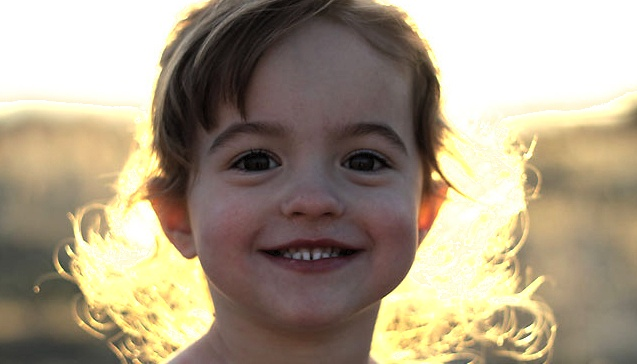
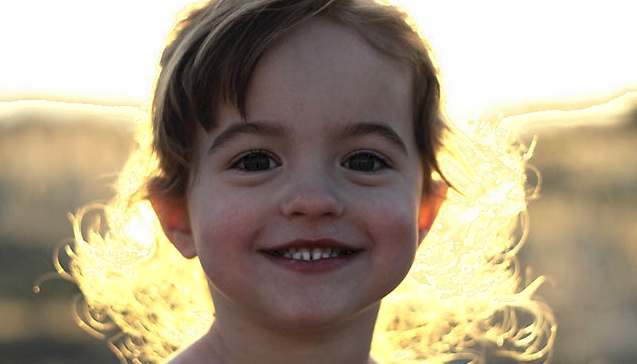
Darkened brightest parts and vice versa but there are still significant artifacts as it's not a smooth transition

diff --git a/old_Brightness_Correction.py b/old_Brightness_Correction.py
@@ -94,9 +94,6 @@ def old_linearRescale(image, start, end):
 
 	scale = 255 / (end - start)
 
-	# for index, pixel in np.ndenumerate(image):
-	# 	image[index] = max(( pixel - start ) * scale, 0)
-
 	for index in range(image.shape[2]):
 		output[:,:,index] = (image[:,:,index] - start ) * scale
 
@@ -109,12 +106,11 @@ def old_linearRescale(image, start, end):
 
 # Given an image, it's joined values, and a target range, scale the original image to fit the desired histogram
 # Outputs a float numpy array of the same size and shape as image
-def linearRescale(image, joinedimage, start, end, mask):
+def linearRescale(image, joinedimage, start, end, light_mask, dark_mask):
 
 	output = np.zeros(image.shape, dtype=np.float)
 	scale = 255.0 / (end - start)
 	print "Range is {} and scale is {:.2f}".format(end - start, scale)
-
 
 	joined_rescaled = (joinedimage - start) * scale 
 	for i in range(image.shape[2]):
@@ -122,31 +118,34 @@ def linearRescale(image, joinedimage, start, end, mask):
 		output[:,:,i] = joined_rescaled * (image[:,:,i] / joinedimage) / (1.0/3.0)
 		print "Average output for this color is {:.1f}".format(np.average(output[:,:,i]))
 
+	# Adjust the brightest and darkest areas with a non-linear scaling
+	# dark_boost_max = 2		# Max scaling to increase darkest areas
+	# dark_boost_range = 20
+	# for i in range(0, dark_boost_range):
+	# 	dark_mask = output == i
+	# 	output[mask] = output[mask] * dark_boost_max * (dark_boost_range - i) / dark_boost_range
+
+	adark_mask = output < 15
+	output[adark_mask] = output[adark_mask] * 2
+	bright_mask = output > 245
+	output[bright_mask] = output[bright_mask] * .95
 
 	# Only scale unmasked regions by copying over original image data that was masked
-	mask_3D = np.full(image.shape, False, dtype=np.uint8)
+	mask_3Dl = np.full(image.shape, False, dtype=np.uint8)
+	mask_3Dd = np.full(image.shape, False, dtype=np.uint8)
 	for i in range(image.shape[2]):
-		mask_3D[:,:, i] = mask
-	# print "Image size: {}".format(image.shape)
-	# print "Output size: {}".format(output.shape)
-	# print "Mask size: {}".format(mask_3D.shape)
-	# print mask_3D
-	anothermask = mask_3D == 0
-	# print anothermask
-	# print "Another mask size: {}".format(anothermask.shape)
-	output[anothermask] = image[anothermask]
+		mask_3Dl[:,:, i] = light_mask
+		mask_3Dd[:,:, i] = dark_mask
+	almask = mask_3Dl == 0
+	admask = mask_3Dd == 0
+	output[almask] = image[almask] * .98
+	output[admask] = image[admask] * 2
 	print "Average output post mask {:.1f} \t Max: {}".format(np.average(output), np.max(output))
 
-	# for index, pixel in np.ndenumerate(joinedimage):
-	# 	scaled = (pixel - start) * scale
-	# 	print "index = {} \t Output: {}".format(index, output[index])
-	# 	for i in range(image.shape[2]):
-	# 		output[index][i] = scaled * (image[index][i] / pixel)
-
-	# lower_bound_mask = output < 0
-	# output[lower_bound_mask] = 0
-	# upper_bound_mask = output > 255
-	# output[upper_bound_mask] = 255
+	lower_bound_mask = output < 0
+	output[lower_bound_mask] = 0
+	upper_bound_mask = output > 255
+	output[upper_bound_mask] = 255
 
 	return output
 	# return output.astype(np.uint8)

diff --git a/old_main.py b/old_main.py
@@ -46,8 +46,10 @@ if __name__ == "__main__":
 			mask = np.full(joinedlayers.shape, 255, dtype=np.uint8)
 			im_mask =  joinedlayers >= 700
 			mask[im_mask] = 0
+			light_mask = mask
 			im_mask = joinedlayers <= 45
 			mask[im_mask] = 0
+			dark_mask = mask
 			cv2.imwrite(os.path.join(OUTPUT_DIR, '%s_joined_mask.jpg' % file), mask)
 			joined_hist = BC.createJoinedHistogram(joinedlayers, mask)
 			joinedhistgraph = BC.drawHistogram([joined_hist])
@@ -59,9 +61,11 @@ if __name__ == "__main__":
 
 			# Rescale brightness linearly
 			print "Scaling images to between {} and {}".format(start, end)
-			rescaled = BC.linearRescale(image, joinedlayers, start, end, mask)
+			rescaled = BC.linearRescale(image, joinedlayers, start, end, light_mask, dark_mask)
 			cv2.imwrite(os.path.join(OUTPUT_DIR, '%s_LinearScaling.jpg' % file), rescaled)
 			print "Min val: {} \t Max val: {}".format(np.min(rescaled), np.max(rescaled))
+
+			# fixed_extreme = BC.adjustExtremes(rescaled, image, bright_mask, dark_mask)
 
 			print "\n"
 
